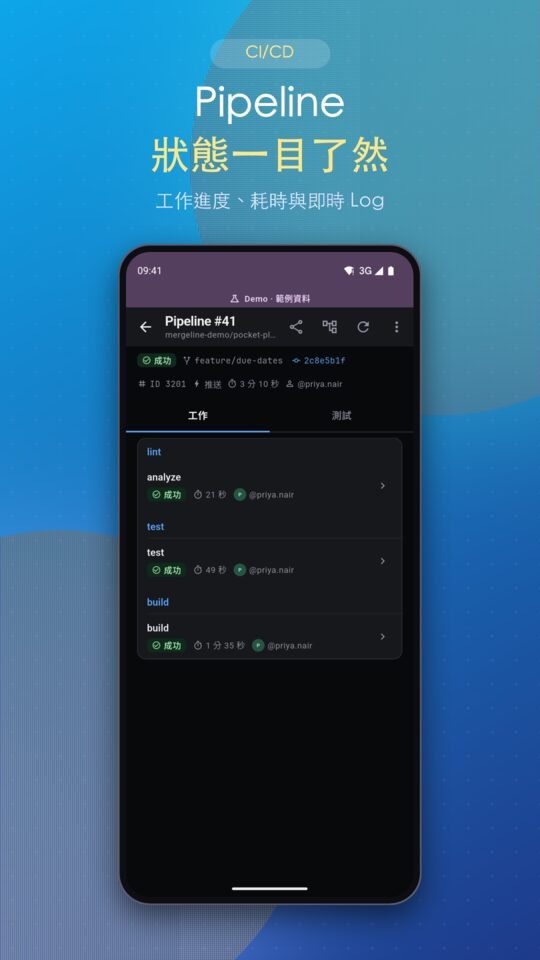
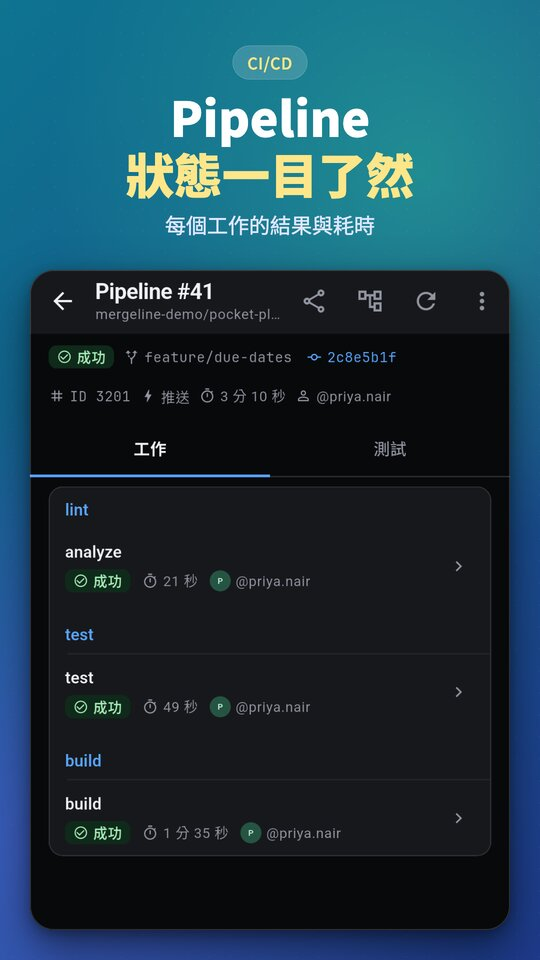
docs: Play listing live; third-party-first screenshots and promo video
The owner found the phone frames misaligned, the app screens too small and
the AI assistant presented first. The seven screenshots, the feature graphic
and the promo video were redone with Remotion: large cropped screens, a
single box for frame and screen, the GitLab client first and the AI last.
The Play listing went live on 2026-10-31; the new graphics are in review.

Claude-Session: https://claude.ai/code/session_015jTxppBDYuF6HHsA4RP8Xe

diff --git a/docs/PLAN_STATUS.md b/docs/PLAN_STATUS.md
@@ -80,10 +80,12 @@ In priority order. Steps marked **owner** need the owner in person.
 1. **Play listing.** Owner decisions: Play only, US$3.99, screenshots that feature the AI assistant (2026-10-21); the Play build carries the assistant after in-app AI reporting lands, and reviewers use a Demo mode (2026-10-30).
    - **Done in Play Console (2026-10-30):** app `app.mergeline` created under the CB Studio developer account; store listing text (zh-TW); app access (Demo mode instructions, no credentials); ads, advertising ID, target audience, government apps, financial features and health declarations; data safety (collected, not shared: user IDs, required; in-app messages, photos, videos, files and other user content, optional; **not** all encrypted in transit, because an AI provider may be a LAN HTTP server; the optional deletion URL is empty because Play's URL check rejected the Google Doc link); privacy policy ([`PRIVACY.md`](PRIVACY.md), hosted as a public Google Doc because Google's checker got HTTP 429 from gitlab.com).
    - **Content rating and price (2026-10-30, owner-approved, done by Claude):** IARC questionnaire with the owner's email (about 12+/Teen; users interact, AI-generated content); US$3.99 in 177 countries; production available in 173.
-   - **Store listing graphics (2026-10-30):** icon, feature graphic, five framed phone screenshots (AI confirmation card, AI explanation, MR diff review, CI pipeline, Home) taken in Demo mode, and a 39-second promo video on YouTube (https://www.youtube.com/watch?v=p-G6da2prmg, public). Sources: `docs/media/`.
+   - **Store listing graphics (2026-10-30):** icon, feature graphic, five framed phone screenshots (AI confirmation card, AI explanation, MR diff review, CI pipeline, Home) taken in Demo mode, and a 39-second promo video on YouTube (https://www.youtube.com/watch?v=p-G6da2prmg, public; replaced on 2026-10-31, see below). Sources: `docs/media/`.
    - **Code for Play:** in-app AI reporting (!270: the report posts to the developer's Google Form from inside the app; mail/share fallback), Demo mode (sample data, no account, no network except a report the user sends), the Play build guard allowing the assistant, v0.6.1.
    - **Release (2026-10-30):** the 0.6.1 draft was blocked by Play's foreground-service declaration check, so !275 strips those declarations from the Play build. 0.6.2 was built locally from `c6919e52` (fresh bootstrap; `bundletool dump manifest` shows no `FOREGROUND_SERVICE`/`AgentRunService`), walked through in Demo mode on the emulator (explain, propose, approve, write confirmed), uploaded with `gplay release --track production --status draft` and sent for review with the listing changes. Earlier, the 0.6.1 APK's real in-app AI report reached the Google Form with exactly the previewed fields.
-   - **Next:** wait for Google's review; answer any policy questions it raises.
+   - **Live (2026-10-31):** https://play.google.com/store/apps/details?id=app.mergeline.
+   - **Listing graphics v3 (2026-10-31, in Google review):** the owner found the phone frames misaligned, the app screens too small and the AI first. The seven screenshots, the feature graphic and the promo video (https://www.youtube.com/watch?v=oXaaAxL1h_E, public) were redone. They now lead with the third-party GitLab® client, with large cropped screens, and the AI comes last. See [Store listing](STORE_LISTING.md).
+   - **Next:** answer any policy questions from Google.
 2. **Media and loading polish (owner, 2026-10-30).**
    - **#55, done (!278, 2026-10-31).** A video behind image syntax no longer holds up a README or file page. The request stops at the content type, and the video waits behind a tap-to-play card. The page byte budget is first-come. A raster's header size only rejects early; the engine's decoder still decides acceptance, because crafted GIF/JPEG headers can understate the size.
    - **#56, part 1, done (!279, 2026-10-31).**
@@ -91,7 +93,7 @@ In priority order. Steps marked **owner** need the owner in person.
      - Skeletons appear only before the first successful load. Reloads keep their content under the thin bar.
      - Rules are in `UI_REDESIGN.md` › Loading.
      - Device check NOT_RUN.
-   - **#56, part 2 (`feat/skeleton-part2`).**
+   - **#56, part 2, done (!280, 2026-10-31).**
      - Skeletons replace the remaining first-load spinners: start-up (blank for 150 ms, then the app shell), AI settings and the AI write log, the work item activity feed and its attribute, status, reaction and milestone sections, analytics cards, the offline shell and projects, and the snapshot browser. Images wait behind a silent placeholder sized from their declared dimensions.
      - Spinners stay for actions in progress, progress percentages, pull-to-refresh, loading more, one-shot dialogs and labelled checks that come before a button or notice.
      - Device check NOT_RUN.

diff --git a/README.md b/README.md
@@ -1,14 +1,14 @@
 # Mergeline
 
 <p align="center">
-  <img src="docs/media/feature.jpg" alt="Mergeline — a mobile client for GitLab® with a bring-your-own-key AI assistant" width="640">
+  <img src="docs/media/feature.jpg" alt="Mergeline — a third-party mobile client for GitLab®" width="640">
 </p>
 
 **GitLab®, in your pocket.** Mergeline is a mobile-first client for GitLab.com and self-managed GitLab: issues, merge-request review and merge, CI/CD pipelines and logs, files and an inbox — plus a **bring-your-own-key AI assistant** that explains code and proposes changes, each one confirmed by you.
 
-- ▶ **Demo video:** [youtube.com/watch?v=p-G6da2prmg](https://www.youtube.com/watch?v=p-G6da2prmg)
+- ▶ **Demo video:** [youtube.com/watch?v=oXaaAxL1h_E](https://www.youtube.com/watch?v=oXaaAxL1h_E)
 - 📦 **Android (GitLab channel, free):** [latest release](https://gitlab.com/aa22396584/gitlab-mobile/-/releases) — installed builds update themselves under 我的 › 應用程式更新
-- 🛒 **Google Play (`app.mergeline`, US$3.99):** submitted for review on 2026-10-30
+- 🛒 **Google Play (US$3.99):** [play.google.com/store/apps/details?id=app.mergeline](https://play.google.com/store/apps/details?id=app.mergeline)
 - 🧪 **Try without an account:** tap **試用 Demo** on the sign-in screen
 
 > Canonical repository, issues and merge requests: https://gitlab.com/aa22396584/gitlab-mobile.
@@ -20,9 +20,13 @@
 
 ## Screenshots
 
-| AI proposes, you approve | Understands your code | Review merge requests | CI/CD at a glance | Your GitLab, at hand |
-|---|---|---|---|---|
-| <img src="docs/media/screenshot-1-ai-confirm.jpg" width="160" alt="AI confirmation card"> | <img src="docs/media/screenshot-2-ai-explain.jpg" width="160" alt="AI explains a file and writes a comment"> | <img src="docs/media/screenshot-3-review.jpg" width="160" alt="Merge request diff with a discussion"> | <img src="docs/media/screenshot-4-ci.jpg" width="160" alt="Pipeline jobs"> | <img src="docs/media/screenshot-5-home.jpg" width="160" alt="Home"> |
+| Your GitLab, at hand | Review code | Approve and merge | CI/CD at a glance |
+|---|---|---|---|
+| <img src="docs/media/screenshot-1-home.jpg" width="160" alt="Home"> | <img src="docs/media/screenshot-2-review.jpg" width="160" alt="Merge request diff with a discussion"> | <img src="docs/media/screenshot-3-merge.jpg" width="160" alt="Merge request summary with approve and merge"> | <img src="docs/media/screenshot-4-ci.jpg" width="160" alt="Pipeline jobs"> |
+
+| Whole project | AI proposes, you approve | Written, then read back |
+|---|---|---|
+| <img src="docs/media/screenshot-5-project.jpg" width="160" alt="Project overview"> | <img src="docs/media/screenshot-6-ai-confirm.jpg" width="160" alt="AI confirmation card"> | <img src="docs/media/screenshot-7-ai-done.jpg" width="160" alt="The AI write, confirmed by a read-back"> |
 
 All screenshots and the video show **Demo mode** with sample data.
 

diff --git a/docs/STORE_LISTING.md b/docs/STORE_LISTING.md
@@ -1,12 +1,14 @@
 # Store listing
 
-Decided on 2026-10-19; updated 2026-10-30. In Google Play Console (`app.mergeline`,
+Decided on 2026-10-19; updated 2026-10-31. In Google Play Console (`app.mergeline`,
 CB Studio), the store listing (zh-TW), Demo-mode screenshots, App access
 instructions, Data safety, privacy policy URL and policy declarations are
 filled, content rating (IARC) and price (US$3.99) are set, the promo video
-(https://www.youtube.com/watch?v=p-G6da2prmg) is attached, and the Play AAB
-0.6.2 (versionCode 8, `c6919e52`) was submitted for Google review on 2026-10-30 (AI assistant on, background runs
-off, no foreground-service declarations, upload key); see [Plan and status](PLAN_STATUS.md).
+(https://www.youtube.com/watch?v=oXaaAxL1h_E) is attached, and the Play AAB
+0.6.2 (versionCode 8, `c6919e52`; AI assistant on, background runs off, no
+foreground-service declarations, upload key) was submitted for Google review on
+2026-10-30 and is live since 2026-10-31 at
+https://play.google.com/store/apps/details?id=app.mergeline; see [Plan and status](PLAN_STATUS.md).
 
 ## Name
 
@@ -94,6 +96,12 @@ the demo makes is an AI content report the user explicitly sends (to the
 developer's Google Form). Store screenshots are
 taken in the demo, so they show no real account.
 
+The listing graphics were redone on 2026-10-31 and went to Google review the same day, together with the new promo video.
+- **Order:** they introduce Mergeline as a third-party client for GitLab® first (home, review, approve and merge, CI, project). The AI assistant comes last, as the highlight (confirmation card, then the write read back).
+- **Layout:** each screenshot shows a cropped window of a 1080×2424 Demo capture at about 89% of the canvas width. The rounded card and its border are a single box, so they cannot drift apart as the earlier phone-frame composites did.
+- **Production:** they are rendered with Remotion from the same captures as the video.
+- **AI asset declaration:** the Play Console's declaration is "not labelled". The assets are real app screens composed by code, not generated images.
+
 ## Read-cache data safety
 
 The encrypted read cache stays on the device; it adds no off-device collection
@@ -107,8 +115,8 @@ does not redact that content. Sign-out, account switching, removal and terminal
 401 clear the affected account's cache under the cleanup contract in
 `CLAUDE.md`. Android emulator acceptance for the read cache and offline snapshots is
 recorded in [Plan and status](PLAN_STATUS.md) (C2 and C3); the Play Console
-Data safety form was filled on 2026-10-30, while Play review submission and
-iOS device evidence remain open.
+Data safety form was filled on 2026-10-30, the app went live on Play on
+2026-10-31, and iOS device evidence remains open.
 
 ## Rules for the listing
 

diff --git a/docs/README.md b/docs/README.md
@@ -55,4 +55,4 @@ Synthetic tests, live API checks, emulator runs and physical-device runs are rec
 
 ## Media
 
-[`media/`](media/) holds the README showcase: the feature graphic, store screenshots and a short demo GIF, all taken in Demo mode with sample data. The full promo video is on [YouTube](https://www.youtube.com/watch?v=p-G6da2prmg).
+[`media/`](media/) holds the README showcase: the feature graphic, store screenshots and a short demo GIF, all taken in Demo mode with sample data. The full promo video is on [YouTube](https://www.youtube.com/watch?v=oXaaAxL1h_E).
